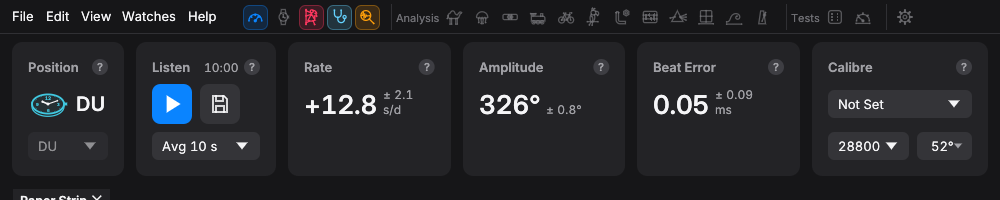
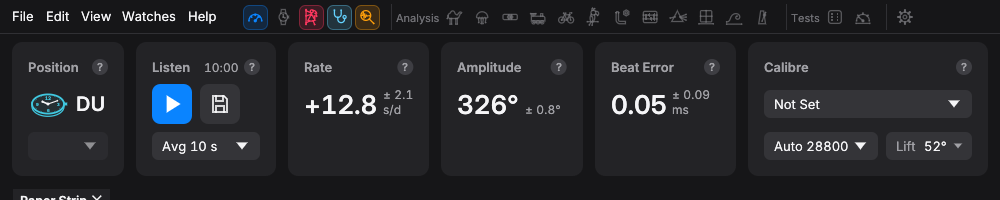
Calibre card: the beat rate shows at every width, labelled
At 800 the beat rate keeps the controls row ("Auto 28800") and the lift
heads the Calibre menu. At 1000 both carry their words ("Auto 28800",
"Lift 52°"). The compact Position card shows its code once, and a file
opened without watch settings says so first in the status bar.

Claude-Session: https://claude.ai/code/session_01GsSg6RBnTb5YLpmgbJGamZ

diff --git a/crates/timegrapher-app/src/app.rs b/crates/timegrapher-app/src/app.rs
@@ -835,7 +835,7 @@ const CAPTION_FIT_W: f32 = 118.0;
 /// The compact Calibre card: wide enough for the beat rate and the lift
 /// side by side where the reading cards keep their captions whole beside
 /// it, else narrower, the beat rates then in the Calibre menu.
-const CALIBRE_ROOMY_W: f32 = 176.0;
+const CALIBRE_ROOMY_W: f32 = 240.0;
 const CALIBRE_COMPACT_W: f32 = 130.0;
 /// The narrowest Calibre card's controls row that holds the beat rate
 /// and the lift side by side.
@@ -3615,13 +3615,13 @@ impl TimegrapherApp {
         }
         self.open_note = Some(match from_name {
             Some(p) => format!(
-                "Position {} from the file name. The file has no watch settings, so the \
-                 calibre is Not Set and the lift angle {DEFAULT_LIFT_DEG}°: set them on the readings' cards.",
+                "No watch settings in the file: Calibre Not Set, Lift {DEFAULT_LIFT_DEG}°, \
+                 {} from the file name.",
                 p.label()
             ),
             None => format!(
-                "The file has no watch settings, so the calibre is Not Set, the lift angle \
-                 {DEFAULT_LIFT_DEG}° and the position Dial Up: set them on the readings' cards."
+                "No watch settings in the file: Calibre Not Set, Lift {DEFAULT_LIFT_DEG}°, \
+                 Dial Up."
             ),
         });
     }
@@ -4239,8 +4239,9 @@ impl TimegrapherApp {
         } else {
             "Analysed the whole recording. Drag the strip to look back."
         };
+        // The note first: the status bar cuts a long message at its end.
         let m = match self.open_note.take() {
-            Some(n) => format!("{done} {n}"),
+            Some(n) => format!("{n} {done}"),
             None => done.to_string(),
         };
         self.info_msg(m);
@@ -6627,9 +6628,11 @@ impl TimegrapherApp {
             child.spacing_mut().interact_size.y = theme::CONTROL_H;
             child
                 .add_enabled_ui(editable, |ui| {
+                    // The code is beside the picture already: the pop-up
+                    // says what it does instead.
                     egui::ComboBox::from_id_salt("position")
                         .width(ui.available_width())
-                        .selected_text(here.code())
+                        .selected_text(if editable { "Set" } else { "" })
                         .show_ui(ui, |ui| {
                             for (n, p) in Position::ALL.into_iter().enumerate() {
                                 ui.selectable_value(
@@ -7027,20 +7030,31 @@ impl TimegrapherApp {
             None => heard.map(|b| (b, "the rate found from the beats")),
         };
         let current = self.calibre.clone();
-        let mut bph = self.bph;
-        let picked = if ui.available_width() >= TWO_FIELDS_W || self.bph_set_by_calibre() {
+        let mut lift = self.lift_deg;
+        let picked = if ui.available_width() >= TWO_FIELDS_W {
             self.cal.picker(ui, &current, rate)
         } else {
-            let how = self.bph_hint();
+            // Too narrow for both under the picker: the beat rate keeps
+            // the controls row and the lift heads this menu.
+            let settable = self.lift_settable();
             let mut first = |ui: &mut egui::Ui| {
-                let found = match (bph, heard) {
-                    (None, Some(h)) => format!("Beat Rate: Auto, {h} found"),
-                    (Some(b), _) => format!("Beat Rate: {b}"),
-                    _ => "Beat Rate: Auto".to_string(),
+                let words = if settable {
+                    format!("Lift: {}", show_degrees(lift))
+                } else {
+                    format!("Lift: {}, set by the calibre", show_degrees(lift))
                 };
-                ui.label(RichText::new(found).small().color(pal.text_tertiary))
-                    .on_hover_text(how);
-                bph_choices(ui, &mut bph);
+                ui.label(RichText::new(words).small().color(pal.text_tertiary))
+                    .on_hover_text(LIFT_HINT);
+                if settable {
+                    for o in LIFTS {
+                        if ui
+                            .selectable_label(o == lift, format!("Lift {}", show_degrees(o)))
+                            .clicked()
+                        {
+                            lift = o;
+                        }
+                    }
+                }
                 ui.separator();
             };
             self.cal
@@ -7048,8 +7062,8 @@ impl TimegrapherApp {
         };
         if let Some(p) = picked {
             self.set_calibre(p);
-        } else if bph != self.bph {
-            self.change_bph(bph);
+        } else if lift != self.lift_deg {
+            self.set_lift(lift);
         }
     }
 
@@ -7081,7 +7095,7 @@ impl TimegrapherApp {
 
     /// The Calibre card's controls row: the beat rate and the lift angle
     /// side by side, each as text where the calibre sets it. Where the
-    /// row is too narrow for both, the lift alone, the beat rates heading
+    /// row is too narrow for both, the beat rate alone, the lift heading
     /// the Calibre menu.
     fn rate_and_lift(&mut self, ui: &mut egui::Ui) {
         let pal = theme::pal(ui);
@@ -7115,22 +7129,21 @@ impl TimegrapherApp {
                 )
             }
         };
-        if both {
+        let bph_w = if both { half } else { ui.available_width() };
+        {
             if self.bph_set_by_calibre() {
                 let b = self
                     .bph
                     .or_else(|| self.cal.bph(&self.calibre))
                     .or(heard)
                     .map_or_else(|| "Found When Heard".to_string(), |b| format!("{b} bph"));
-                fact(ui, "", b, &set_by("beat rate"), half);
+                fact(ui, "", b, &set_by("beat rate"), bph_w);
             } else {
                 let mut bph = self.bph;
+                // Words that say whether it was found or set.
                 let shown = match (bph, heard) {
-                    (Some(b), _) => b.to_string(),
-                    (None, Some(h)) if half >= 100.0 => format!("Auto · {h}"),
-                    // Found, on a narrow card: the rate, its hover saying
-                    // it is Auto.
-                    (None, Some(h)) => h.to_string(),
+                    (Some(b), _) => format!("{b} bph"),
+                    (None, Some(h)) => format!("Auto {h}"),
                     _ => "Auto".to_string(),
                 };
                 // As wide as its words, the lift taking the rest of the row.
@@ -7139,8 +7152,16 @@ impl TimegrapherApp {
                         .size()
                         .x
                 });
+                if !both {
+                    // Alone in a narrow row: less padding, so its words fit.
+                    ui.spacing_mut().button_padding.x = 4.0;
+                }
+                // ComboBox's width leaves out its padding and ▾.
+                let sp = ui.spacing();
+                let chrome = 2.0 * sp.button_padding.x + sp.icon_width + sp.icon_spacing;
+                let combo_w = if both { words_w + 8.0 } else { bph_w - chrome };
                 egui::ComboBox::from_id_salt("bph")
-                    .width(words_w + 8.0)
+                    .width(combo_w)
                     .height(320.0)
                     .selected_text(shown)
                     .show_ui(ui, |ui| bph_choices(ui, &mut bph))
@@ -7151,12 +7172,14 @@ impl TimegrapherApp {
                 }
             }
         }
+        if !both {
+            return;
+        }
         let w = ui.available_width();
         if !self.lift_settable() {
-            let label = if w >= 70.0 { "Lift" } else { "" };
             fact(
                 ui,
-                label,
+                "Lift",
                 format!("{}°", fields::plain(self.lift_deg)),
                 &set_by("lift angle"),
                 w,
@@ -7164,7 +7187,7 @@ impl TimegrapherApp {
             return;
         }
         let mut lift = self.lift_deg;
-        let prefix = if w >= 84.0 { "Lift" } else { "" };
+        let prefix = "Lift";
         let (resp, changed) = fields::combo(
             ui,
             "lift",
@@ -18841,14 +18864,11 @@ mod tests {
                 p.code()
             );
         }
-        // Compact, the two-letter code beside the picture (and on the
-        // pop-up), not the name, which a compact card cuts short.
+        // Compact, the two-letter code beside the picture, once, not the
+        // name, which a compact card cuts short.
         let texts = window_texts(&mut app, &ctx, 1000.0);
         assert!(texts.iter().any(|t| t == "Position"), "{texts:?}");
-        assert!(
-            texts.iter().filter(|t| *t == "DU").count() >= 2,
-            "{texts:?}"
-        );
+        assert_eq!(texts.iter().filter(|t| *t == "DU").count(), 1, "{texts:?}");
         for gone in ["Dial", "Up", "Dial Up"] {
             assert!(!texts.iter().any(|t| t == gone), "{gone}: {texts:?}");
         }
@@ -19178,10 +19198,10 @@ mod tests {
         let ctx = themed();
         for w in [800.0, 1000.0, 1610.0] {
             let texts = window_texts(&mut app, &ctx, w);
-            let mut wants = vec!["DU", "Listen", "Not Set", "Watches"];
-            if w != 1000.0 {
-                // At 1000 the lift's field is too narrow for its word,
-                // which its hover gives.
+            let mut wants = vec!["DU", "Listen", "Not Set", "Watches", "Auto"];
+            if w > 800.0 {
+                // At 800 the lift heads the Calibre menu, and the beat
+                // rate has the row.
                 wants.push("Lift");
             }
             if w > 800.0 {

diff --git a/docs/app.md b/docs/app.md
@@ -100,8 +100,8 @@ controls: each is its figure. **Calibre** holds what the readings are
 worked out for, in one place: the **Calibre** pop-up on its figure row
 (its search covers the whole table, with **Manage Calibres…** at its
 foot; see Calibre, below), and under it the beat rate's pop-up (**Auto**,
-found from the beats and given beside it, "Auto · 28800", or a standard
-rate) and **Lift**, the lift angle, one field typed in or picked from
+found from the beats and given beside it, "Auto 28800", or a standard
+rate, "21600 bph") and **Lift**, the lift angle, one field typed in or picked from
 the common ones with its ▾ (52° by default). A calibre picked in Quick
 Listen sets the beat rate, and the lift angle where the table has one,
 which then show as text; Not Set puts back Auto and 52°. A calibre
@@ -122,14 +122,14 @@ Calibre take compact forms in turn, down to the 800-point minimum, the
 reading cards always keeping room for their captions whole. Compact,
 Current Position is captioned **Position**, with a smaller picture, the
 position's two-letter code beside it ("CR"; the name is in its hover),
-and one pop-up of the six positions (with their keys) instead of the
-buttons; keys 1 to 6 still work, and the bars aren't shown. Listen keeps
+and under it one pop-up, **Set**, of the six positions (with their keys)
+instead of the buttons; keys 1 to 6 still work, and the bars aren't shown. Listen keeps
 its two icons, gives the take's length beside its caption ("Listen
 12:48"; on the narrowest windows in the Listen icon's hover instead),
 and shows Average Over's pop-up as **Avg 10 s**. Compact, Calibre keeps
-its pop-up with the beat rate and lift under it, the lift's field without
-its word where it is narrow; on the narrowest windows the lift alone,
-the beat rates heading the Calibre menu.
+its pop-up with the beat rate and lift under it; on the narrowest
+windows the beat rate alone ("Auto 28800"), with the lift heading the
+Calibre menu (its value, then the common lift angles to pick).
 
 **Quick Listen**, from the Listen icon on the Listen card, listens on the
 microphone without picking or adding a watch first, for a watch handed
@@ -325,7 +325,7 @@ window shows the hours done, the time left and the files in order, and
 Steadiness then covers the whole night.
 
 **Readings.** The **Calibre** card gives the beats per hour the
-readings use: found from the beats while its beat rate is Auto ("Auto ·
+readings use: found from the beats while its beat rate is Auto ("Auto
 28800"), or the one set there or by the calibre. Rate (seconds per day gained, +, or lost, −), amplitude (degrees) and beat error (ms), each a
 fit over the last few seconds of beats (10 s by default, or 2, 4, 20, 30
 or 60 s; the setting is Average Over, on the Listen card). Early in a session, or after a break in listening or a gap of
@@ -1191,7 +1191,7 @@ folder can't be moved while another copy has it open. The Watches pane adds watc
     and selected whatever the filters hide. Under the heading, every
     calibre in a table on the left and, level with it on the right,
     the one selected in full (see **The details** below). Opened
-    from the Calibre menu while a beat rate is known (set on the Beat Rate
+    from the Calibre menu while a beat rate is known (set on the Calibre
     card, found from the beats, or the watch's in its form), the table
     starts with the Beat Rate funnel at that rate and says so above it
     ("Showing 28800 bph, the rate found from the beats"), with **Show
